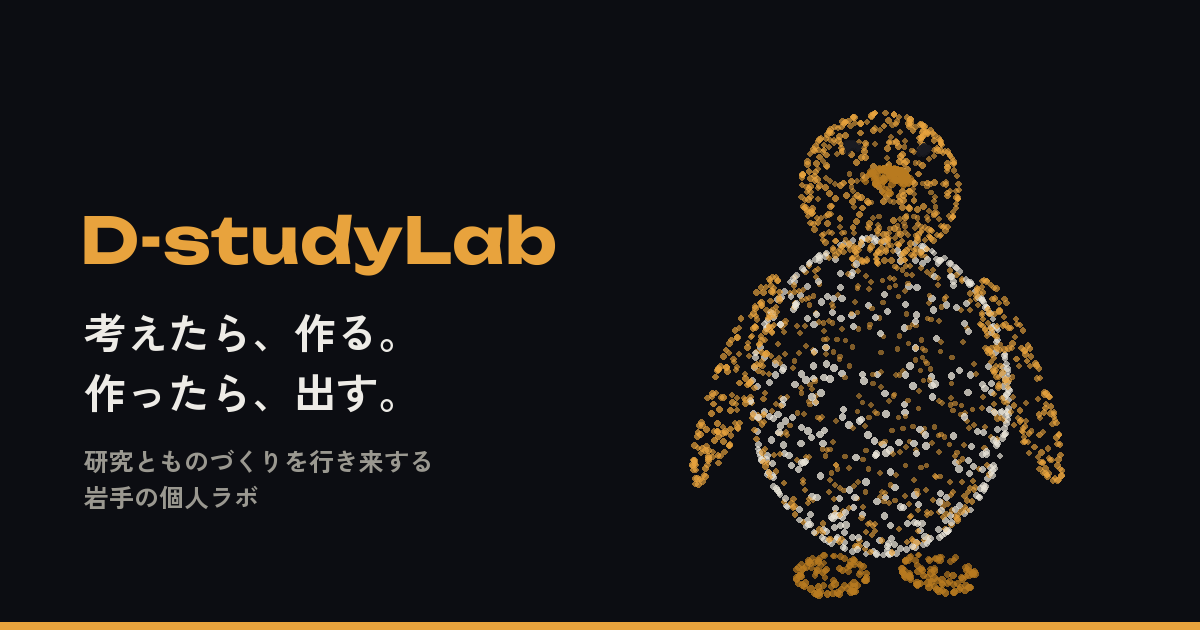
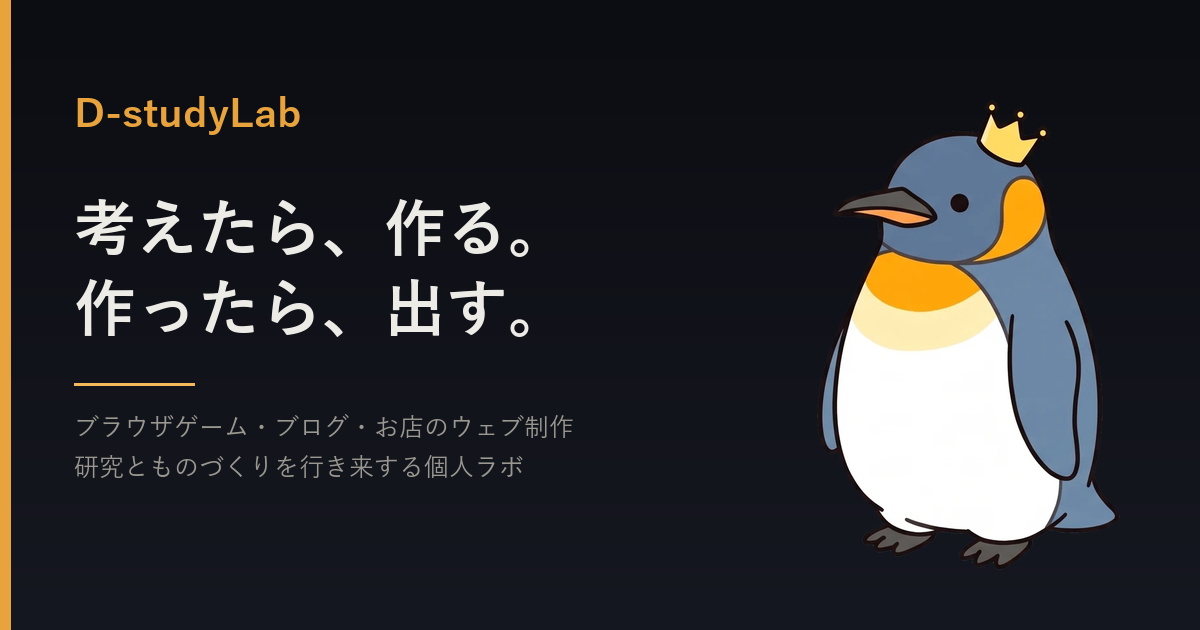
ルートOGP画像をマスコット入りに刷新（点群ペンギン時代のまま古かった）
マスコットをイラストのキングペンギンに差し替えた際、
og.png だけが v3 の点群ペンギンのまま取り残されていた
（Xやnoteでシェアすると古い絵が出る状態）。

hero.webp を使って生成し直し、生成スクリプトも同梱して
今後マスコットや文言を変えたら再実行できるようにした。

Claude-Session: https://claude.ai/code/session_01WtTcHpMDoxA4URgrp7sz3x

Changed region(s): [[0.0, 0.0, 1.0, 1.0], [0.0617, 0.3016, 0.4933, 0.8143], [0.0617, 0.1508, 0.2467, 0.2111]]

diff --git a/assets/mascot/make_ogp.py b/assets/mascot/make_ogp.py
@@ -1,0 +1,51 @@
+# -*- coding: utf-8 -*-
+"""ルートOGP画像を生成する（マスコット入り）。
+使い方: python assets/mascot/make_ogp.py
+マスコットや文言を変えたら再実行して og.png を作り直す。"""
+from PIL import Image, ImageDraw, ImageFont
+
+W, H = 1200, 630
+BG      = (12, 13, 18)     # 黒鉛
+PANEL   = (20, 22, 29)
+AMBER   = (232, 163, 61)   # 琥珀
+AMBER_L = (245, 185, 92)
+TXT     = (237, 235, 230)  # 暖白
+SUB     = (154, 152, 144)
+
+BOLD = r"C:\Windows\Fonts\YuGothB.ttc"
+MED  = r"C:\Windows\Fonts\YuGothM.ttc"
+
+img = Image.new("RGB", (W, H), BG)
+d = ImageDraw.Draw(img)
+
+# 背景: 右下へ向かうごく淡いグラデーション
+for y in range(H):
+    t = y / H
+    d.line([(0, y), (W, y)],
+           fill=(int(BG[0] + 10 * t), int(BG[1] + 11 * t), int(BG[2] + 15 * t)))
+
+# 左端の琥珀のアクセントバー
+d.rectangle([0, 0, 10, H], fill=AMBER)
+
+# マスコット（右側に大きく）
+m = Image.open("assets/mascot/hero.webp").convert("RGBA")
+mh = 470
+mw = int(m.width * mh / m.height)
+m = m.resize((mw, mh), Image.LANCZOS)
+img.paste(m, (W - mw - 80, H - mh - 60), m)
+
+# テキスト
+f_logo = ImageFont.truetype(BOLD, 40, index=0)
+f_head = ImageFont.truetype(BOLD, 62, index=0)
+f_sub  = ImageFont.truetype(MED, 25, index=0)
+
+x = 74
+d.text((x, 92), "D-studyLab", font=f_logo, fill=AMBER)
+d.text((x, 196), "考えたら、作る。", font=f_head, fill=TXT)
+d.text((x, 276), "作ったら、出す。", font=f_head, fill=TXT)
+d.line([(x, 384), (x + 120, 384)], fill=AMBER_L, width=3)
+d.text((x, 414), "ブラウザゲーム・ブログ・お店のウェブ制作", font=f_sub, fill=SUB)
+d.text((x, 454), "研究とものづくりを行き来する個人ラボ", font=f_sub, fill=SUB)
+
+img.save("og.png", optimize=True)
+print("wrote og.png", img.size)